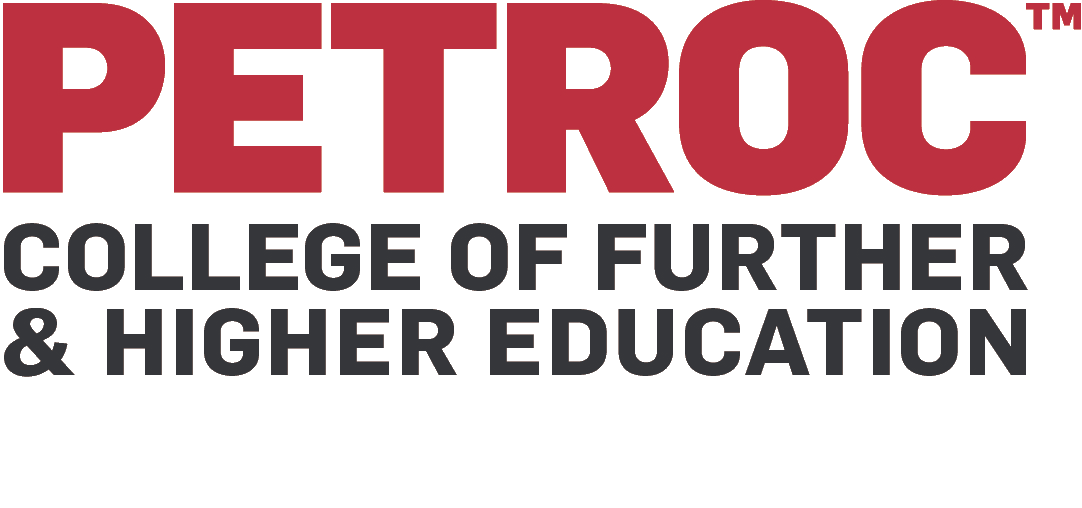
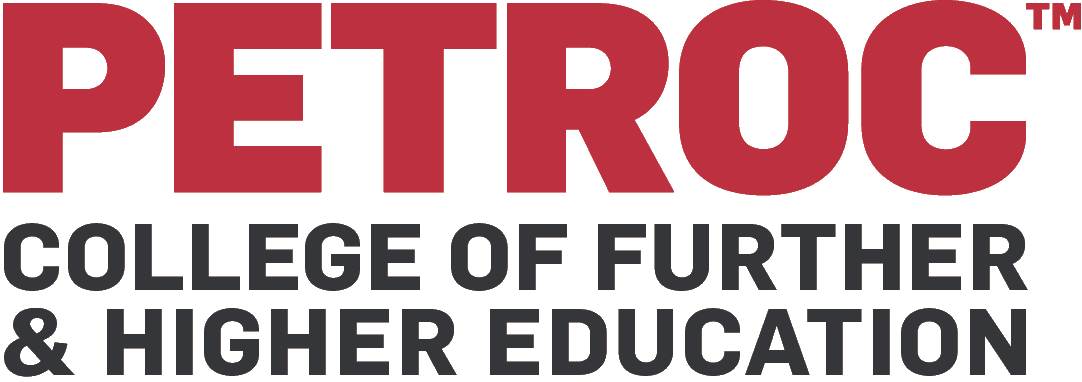
Changed home page font again

diff --git a/CVStyleSheet.css b/CVStyleSheet.css
@@ -35,10 +35,9 @@
 
 
 .mainTitle{
-    font-family: Lovelace, Times, serif;
-    color: #fd514ec5;
+    font-family: 'Courier New', Courier, monospace;
+    color: #fdfdfd;
     font-size: 5vw;
-    font-weight: bold;
     position: relative;
         top: 20%;
 
